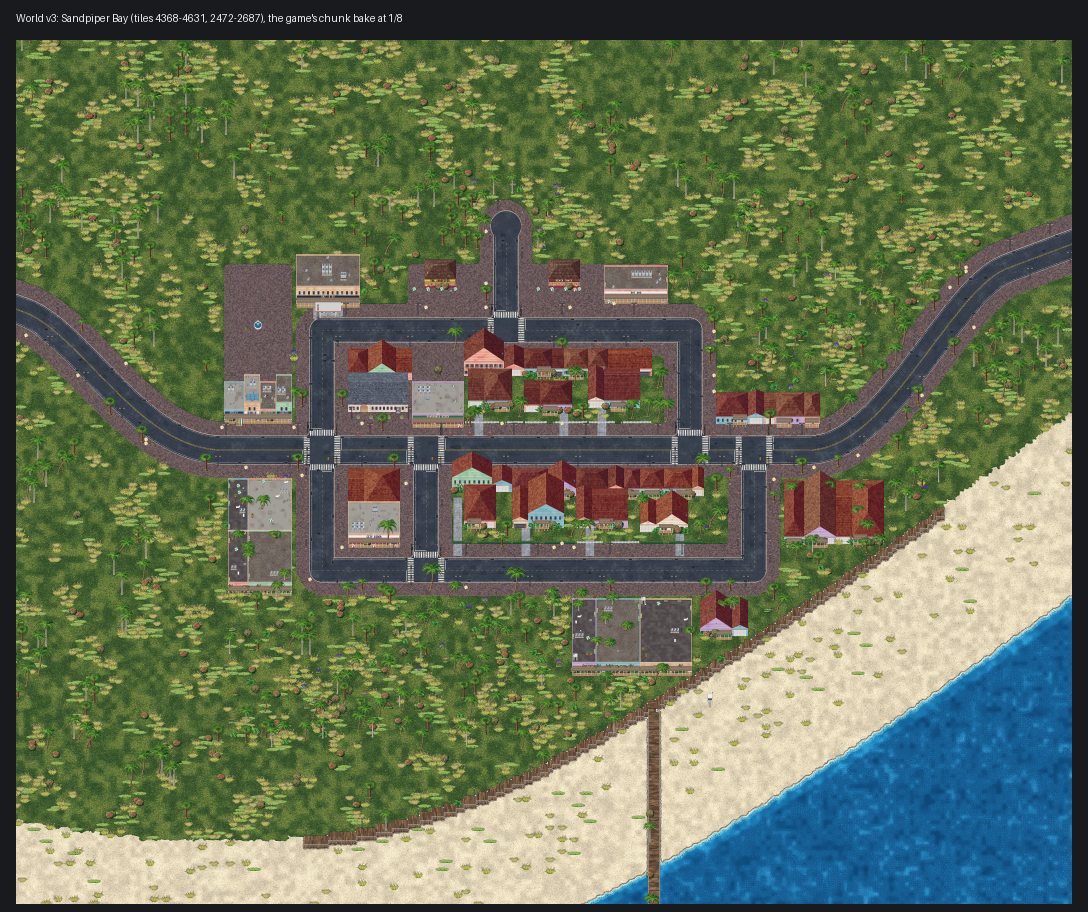
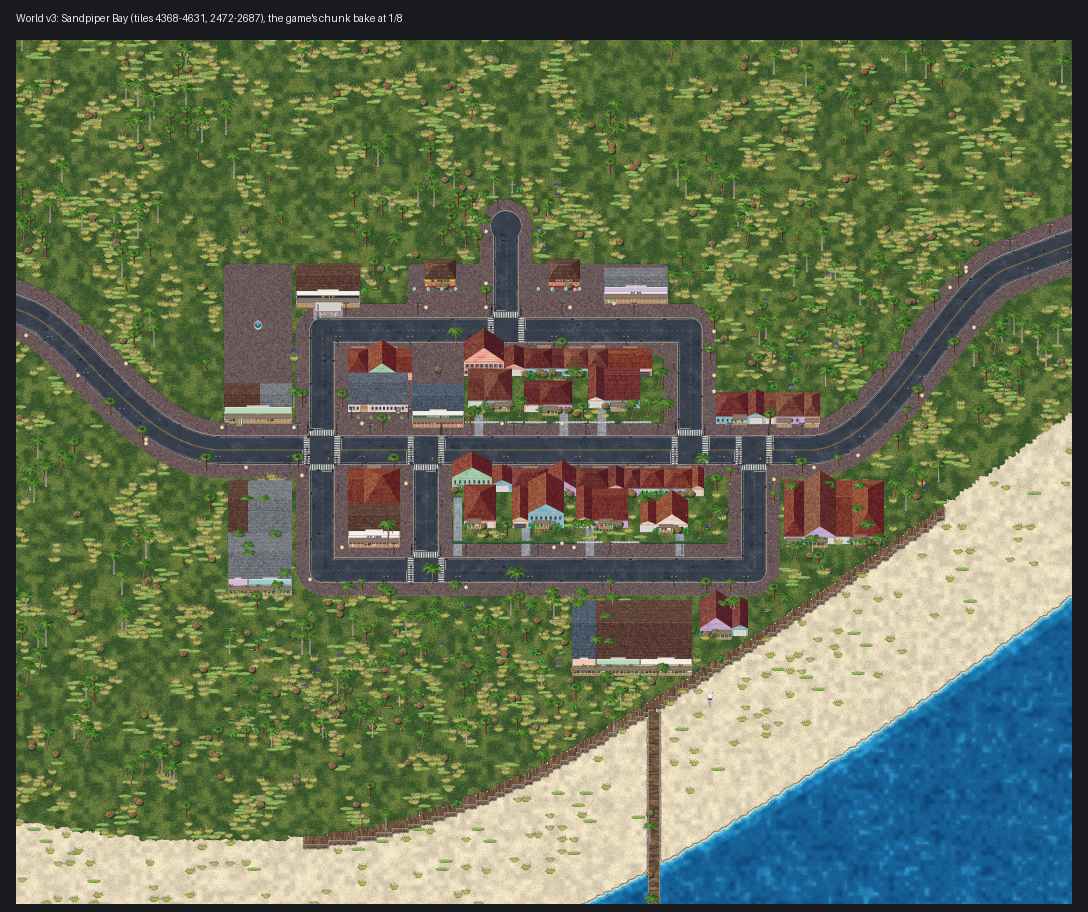
World v3: Sandpiper Bay's clinic keeps the hospital's lot (less road than building); plain-roof lots' fronts by their sidewalk; the towns' pictures with --close (models up close)
Claude-Session: https://claude.ai/code/session_015TdwbASoLBxZr1VoEZGToX

diff --git a/shared/world3-towns.js b/shared/world3-towns.js
@@ -79,7 +79,7 @@ export const TOWN_SPECIALS = [
   { d: 58, prefab: 'industrial', biz: ['delivery'], names: ['Willow Crossing Grain Elevator'], fixed: true, look: 'elevator' },
   { d: 58, prefab: 'diner', biz: ['delivery'], names: ['Crossroads Diner'], fixed: true, look: 'shopfront' },
   { d: 58, prefab: 'strip', biz: ['market', 'farmstand', 'fruitstand', 'delivery'], names: ["Willow Crossing Farmers' Market", 'Valley Farm Stand', 'Orchard Fruit Stand', 'Valley Feed & Seed'], fixed: true, look: 'feedrow' },
-  { d: 59, prefab: 'liquor', biz: ['hospital'], names: ['Sandpiper Bay Clinic'], fixed: true, look: 'clinic' },
+  { d: 59, prefab: 'hospital', biz: ['hospital'], names: ['Sandpiper Bay Clinic'], fixed: true, look: 'clinic' },   // (its lot as before: a store's lot leaves Sandpiper Bay more road than building)
   { d: 59, prefab: 'conv', biz: ['convenience'], names: ['Sandpiper Bay Fuel'], gas: true, fixed: true, look: 'beachshop' },
   { d: 59, prefab: 'strip', biz: ['sports', 'tackle', 'snack', 'delivery'], names: ['Sandpiper Surf Co.', 'Pier Tackle & Bait', 'Shorebird Snack Bar', 'Lifeguard Station'], fixed: true, look: 'surfrow' },
   { d: 59, prefab: 'beachbar', biz: ['delivery'], names: ['The Sandpiper'], fixed: true },

diff --git a/docs/WORLD-V3.md b/docs/WORLD-V3.md
@@ -3084,9 +3084,12 @@ the prefab's city art, and what stands round it in `m.townKit` (`{ k, x, y, a, l
   `coop` (a barn-red shed under a metal gable with its loading dock), `feedrow` (the market's strip with the feed
   store's sacks out front), `farmhouse` (white clapboard, a long porch), its shopfronts; Sandpiper Bay - `surfrow` (the
   surf shop's strip, its boards in a rack out front), `beachshop`, `cottage` and `stilts` (a raised porch on posts with
-  steps down), its clinic. The clinic, the sheriff and the motel are one storey of clapboard under a gable (the clinic
-  on a store's lot now, `liquor`'s 15 x 8 tiles, not the hospital's 18 x 12; the co-op on `quickstop`'s with room in
-  front for its dock).
+  steps down), its clinic. The clinic, the sheriff and the motel are one storey of clapboard under a gable (Timber
+  Bend's and Willow Crossing's clinics on a store's lot now, `liquor`'s 15 x 8 tiles, not the hospital's 18 x 12 -
+  Sandpiper Bay's keeps the hospital's: on a store's lot the town came out with more road than building, 3,815 tiles to
+  3,601, and the towns test wants less; the co-op on `quickstop`'s with room in front for its dock). The shopfronts and
+  the shop rows: the false front is a boarded facade on the porch's model, standing up over the porch roof in front of
+  the low gable behind it (art v2's buildings draw a parapet round a flat roof only).
 - **The sawmill and the elevator** take part of their lot (`b.lookW`: the west 56% the mill's open shed - a wide open
   bay, the saw line out front; the west 32% the elevator's tall corrugated head house); the rest of the solid footprint
   is the yard - three log stacks and the log loader, or a row of silos with their gallery - so nothing new blocks a
@@ -3102,12 +3105,14 @@ the prefab's city art, and what stands round it in `m.townKit` (`{ k, x, y, a, l
   **The classic renderer** (`client/render/townart.js`, from `tiles.js`): the look's roof over the lot's painted art
   (gables, the false front's top, the mill's ribbed shed and dirt yard, the head house) and the kit from above.
 
-**What's built** (seed 1337, `m.world3.towns.models`): Timber Bend - the sawmill, the lodge row, the clinic, the
-sheriff, the motel, 5 shopfronts; 3 log stacks, the loader, the saw line, 6 porches, the antlers. Willow Crossing - the
-church and its steeple, the elevator and 4 silos, the co-op and its dock, the feed row and its sacks, the clinic, the
-sheriff, 7 shopfronts; 8 porches. Sandpiper Bay - the surf row and its boards, the clinic, 4 beach shops, 3 cottages, 4
-houses on stilts; 12 porches, 165 pieces of rail, 10 benches, 13 lamps, the pier's shelter, the tower. (The houses
-the generator built as plain roofs take the house looks too: their numbers are the test's.)
+**What's built** (seed 1337, `m.world3.towns.models`; the generator's plain-roof lots take the looks too - a small
+one a house's, a bigger one a shopfront's):
+
+| town | looks | round them |
+|---|---|---|
+| Timber Bend | 13 cabins, 11 shopfronts, the sawmill, the lodge row, the clinic, the sheriff, the motel | 25 porches, 3 log stacks, the loader, the saw line, the antlers |
+| Willow Crossing | 13 farmhouses, 13 shopfronts, the church, the elevator, the co-op, the feed row, the clinic, the sheriff | 27 porches, the steeple, 4 silos, the dock, the sacks |
+| Sandpiper Bay | 20 cottages, 9 houses on stilts, 9 beach shops, the surf row, the clinic | 39 porches, the boards, 165 pieces of rail, 10 benches, 13 lamps, the pier's shelter, the tower |
 
 **The test** (`test/world3townmodels.test.js`, one world build): each town has its looks and its kit; every planned
 place with a look is in it (the building, its lot, its POI); the sawmill's and the elevator's yards inside their

diff --git a/docs/DEVLOG.md b/docs/DEVLOG.md
@@ -7602,7 +7602,8 @@ in art v2 and the classic renderer, with the planned places moved into them.
   along the street; the sawmill (an open shed with the saw line running into it, the log yard beside it: three stacks
   of logs and a yellow log loader); the hunting lodge's row (the lodge in dark logs with antlers over its door); cabins
   with porches; the clinic, the sheriff and the motel one storey of clapboard under a gable (the clinic on a store's
-  lot, not the hospital's block).
+  lot, not the hospital's block - Willow Crossing's too; Sandpiper Bay's keeps its lot, or the town has more road than
+  building).
 - **Willow Crossing:** the white church with its steeple (a clapboard tower with a slate spire and a gilt cross); the
   grain elevator's tall head house with a row of silos; the co-op, a barn-red shed with its loading dock; the feed
   store's sacks out front; white farmhouses with long porches.
